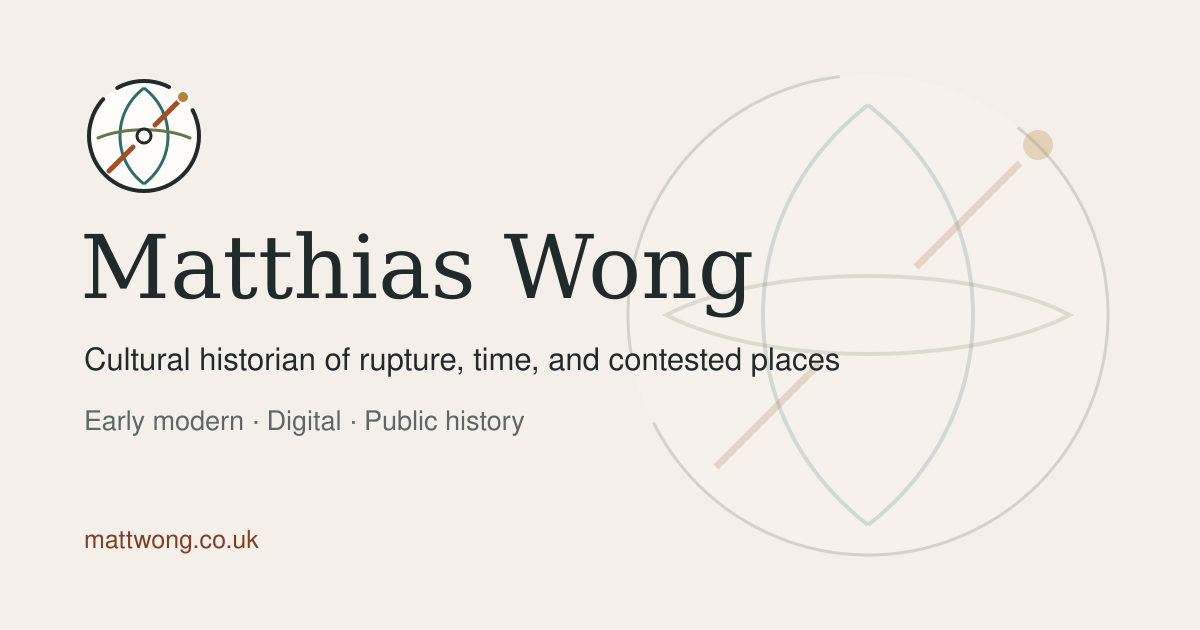
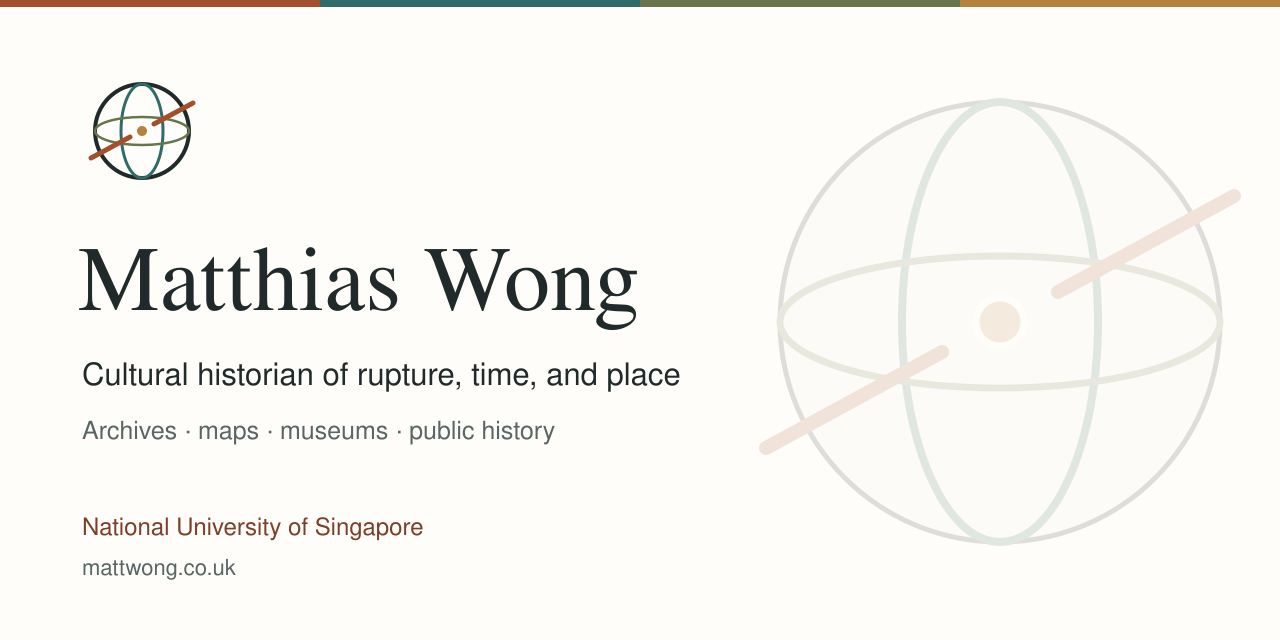
Align social card with final visual identity

diff --git a/layouts/partials/head-extended.html b/layouts/partials/head-extended.html
@@ -1,2 +1,13 @@
 <link rel="icon" type="image/svg+xml" href="{{ .Site.Params.brandMark | relURL }}">
 <meta name="color-scheme" content="light">
+<meta name="twitter:card" content="summary_large_image">
+<meta name="twitter:title" content="{{ .Scratch.Get "title" }}">
+<meta name="twitter:description" content="{{ .Site.Params.description }}">
+{{ with .Site.Params.opengraphImage }}
+  {{ with resources.Get . }}
+    {{ $card := .Fill "1280x640 Lanczos Center" }}
+    {{ $card = slice $card | resources.Concat (printf "social-card%s" (path.Ext .)) }}
+    <meta name="twitter:image" content="{{ $card.Permalink }}">
+    <meta name="twitter:image:alt" content="Matthias Wong, cultural historian of rupture, time, and place">
+  {{ end }}
+{{ end }}

diff --git a/assets/sass/_custom.scss b/assets/sass/_custom.scss
@@ -94,7 +94,6 @@ h3 {
 .site-hero__eyebrow {
   margin-bottom: 1rem;
   color: var(--site-accent);
-  font-family: "Source Sans 3", "Segoe UI", Helvetica, Arial, sans-serif;
   font-size: 0.76rem;
   font-weight: 700;
   letter-spacing: 0.14em;
@@ -212,7 +211,6 @@ h3 {
 }
 
 .site-nav h3 {
-  font-family: "Source Sans 3", "Segoe UI", Helvetica, Arial, sans-serif;
   font-size: 0.77rem;
   font-weight: 700;
   letter-spacing: 0.08em;
